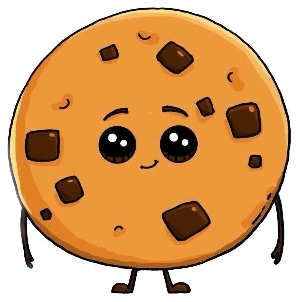
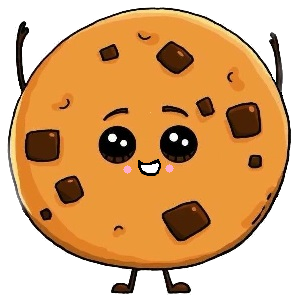
Trocando a imagem no click

diff --git a/index.html b/index.html
@@ -11,7 +11,9 @@
 
         <p id="cookiesPerSecond">You are gaining 0 cookies per/s</p>
 
-        <a href=# onClick="add()"><img id="cookieImg" src="cookie2.png"></a>
+        <div id=cookieImg>
+            <a href=# onClick="add()"><img id="cookie" src="cookie.png"></a>
+        </div>
         <br><br>
 
         You got:

diff --git a/css/style.css b/css/style.css
@@ -2,13 +2,18 @@ table, th, td {
     border: 1px solid black;
     border-collapse: collapse;
     padding: 50px;
-  }
+}
 
 #cookieImg{
     cursor: pointer;
     transform: scale(1);
+    width: 300px;
 }
 
 #cookieImg:active {
     transform: scale(1.03);
-  }
+}
+
+#cookiesPerSecond{
+    width: 300px;
+}

diff --git a/js/main.js b/js/main.js
@@ -39,6 +39,7 @@ setInterval(timer, 1000);
 
 function add(){
     cookiecount = cookiecount + 1;
+    document.getElementById("cookie").src = "cookie2.png";
     update();
 }
 
